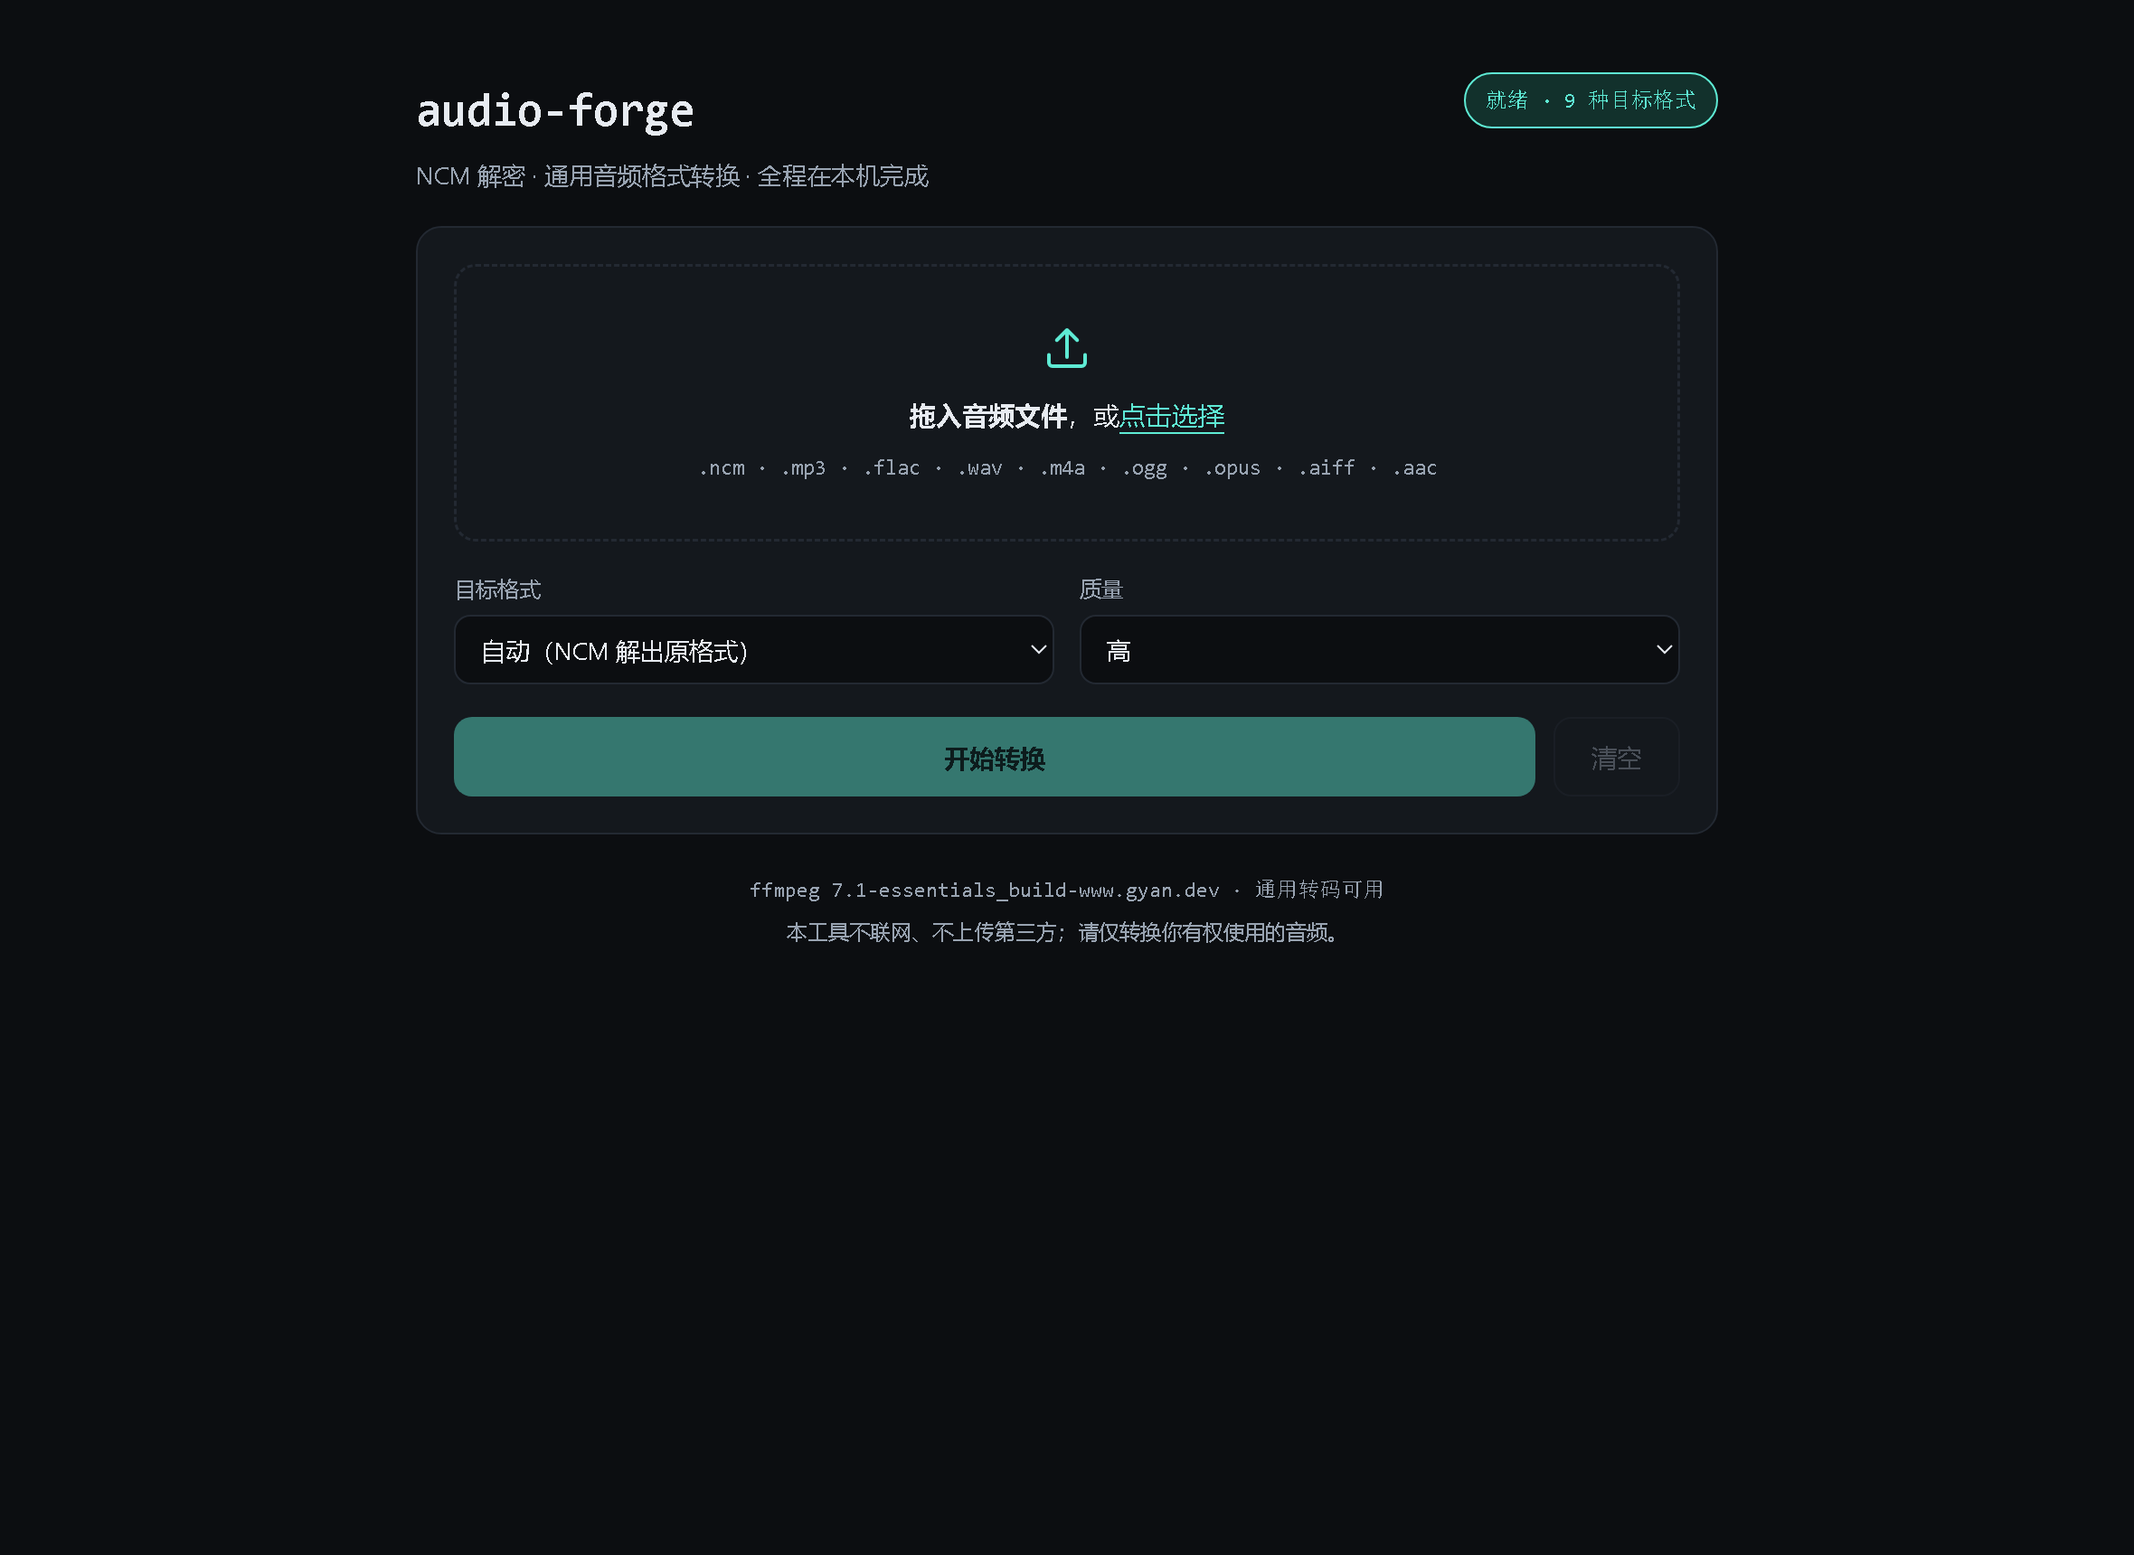
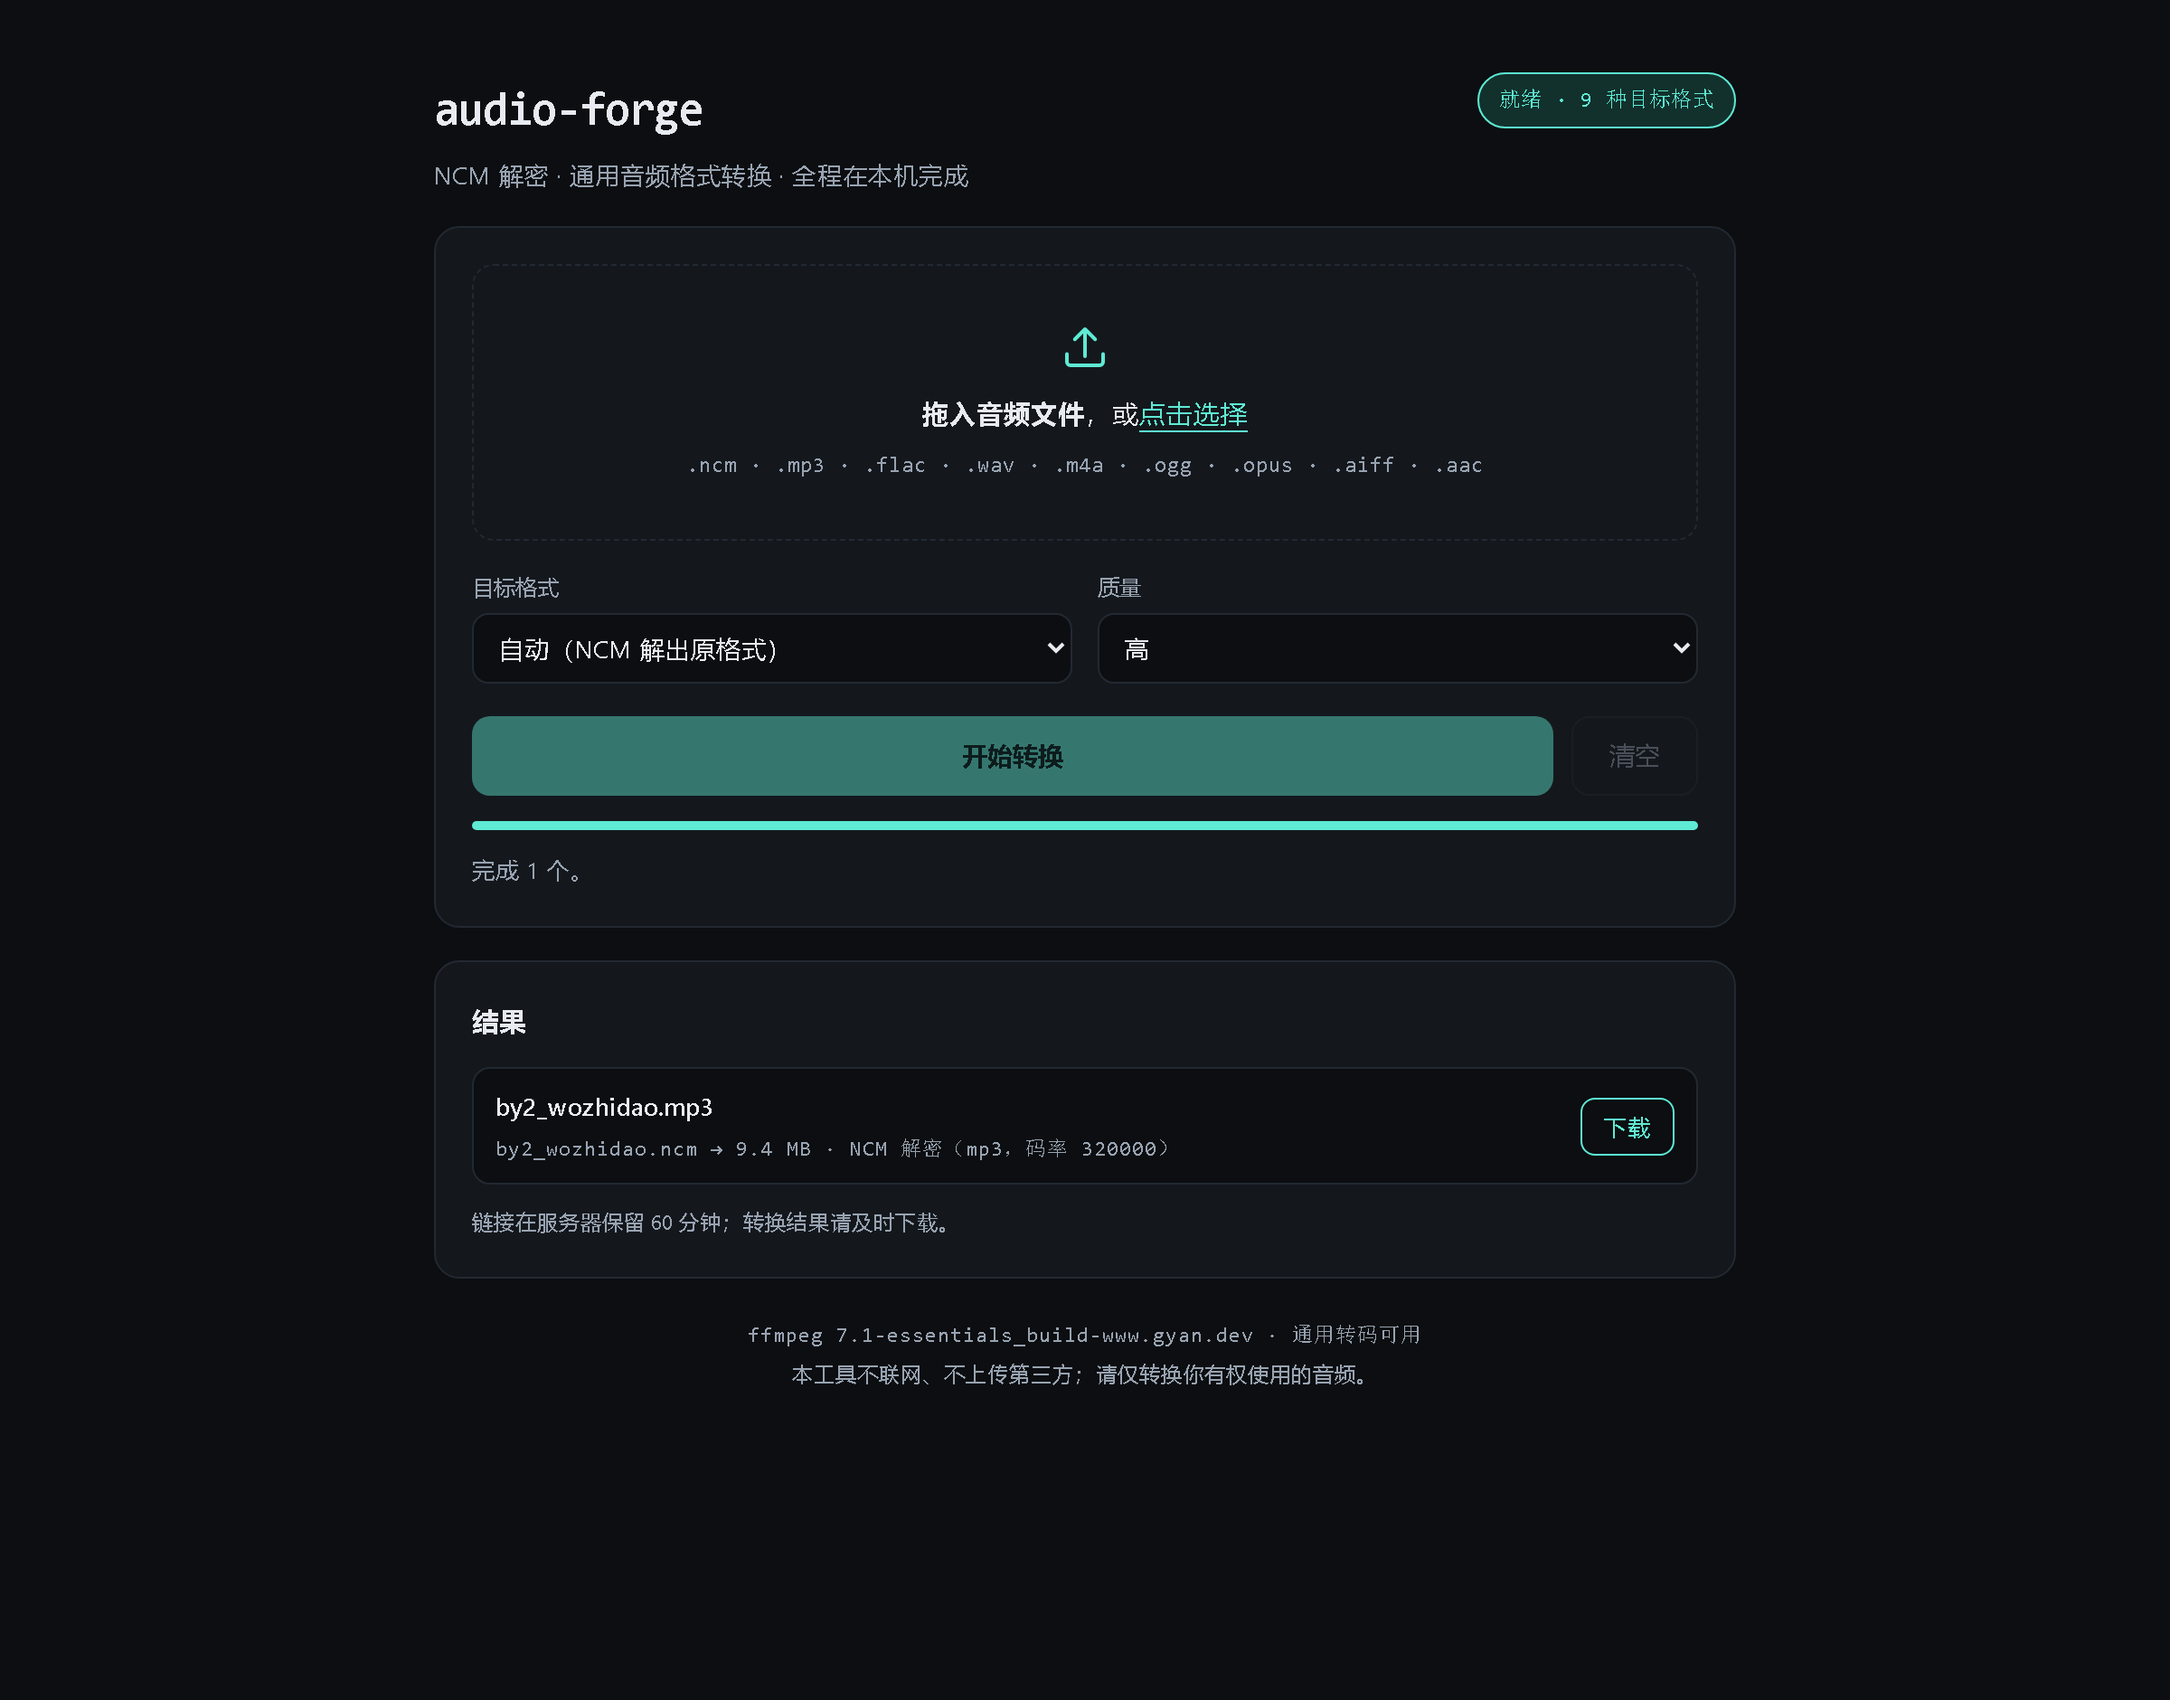
fix(deploy): nginx.conf 三处真机实测暴露的错误
在 nginx 1.28.3 上按原文件起服务、跑真实样本后修的：

1. 整份文件用 // 注释 —— nginx 只认 #，nginx -t 直接失败，等于这份配置从来不能用。
2. limit_req / limit_conn 默认回 503，与应用层 429 语义不一致，运维会误判成服务挂了。
   显式 limit_req_status 429; limit_conn_status 429;
3. 安全头被 add_header 继承规则顶掉：只在 server 级写四个头、再在某 location 里加一条
   Referrer-Policy，该 location 的 nosniff / X-Frame-Options / HSTS 全部消失 —— 实测
   「/ 与 /api/* 有 Referrer-Policy 缺另三个，/api/health 反过来，没有一个 location 齐全」。
   改为每个 location 各写全四行，server 级那份只兜底错误页。

顺带：/api/health 补齐 X-Real-IP / X-Forwarded-For / X-Forwarded-Proto，与其它 location 一致。

实测（nginx 1.28.3，配置由 deploy/nginx.conf 原样生成，仅替换证书/日志路径与端口）：
- 301 跳转、TLS 下 ALPN 协商到 h2
- 10 MB .ncm 经反代转 flac 0.78 s / 52 MB 下载 0.60 s，sha256 与直连一致
- 串行 300 次 /api/ping：过 200 拦 100（30r/s + burst 40）；并发 24：过 8 拦 16（limit_conn 8）
- 声明 300 MB 的 POST 在读头阶段被 413
- 三个路径（/、/api/ping、/api/health）四个安全头齐全

docs/screenshot.png 换成真机跑出来的结果态（真实 10 MB 样本转换完成）。

diff --git a/deploy/README.md b/deploy/README.md
@@ -70,6 +70,22 @@ healthcheck 和监控探针用（否则探活要么失败在 401，要么每 30 
 
 ---
 
+## 2.5 反代层的两个坑（真机踩过，已修在 `nginx.conf` 里）
+
+| 坑 | 现象 | 正确写法 |
+| --- | --- | --- |
+| **限流默认回 503** | `limit_req` / `limit_conn` 超限时 nginx 返回 `503 Service Temporarily Unavailable`，与应用层的 429 不一致，运维会误判成「服务挂了」 | 在 http 块显式写 `limit_req_status 429;` 与 `limit_conn_status 429;` |
+| **安全头被 add_header 顶掉** | 只在 server 级写四个安全头、再在某个 location 里加一条 `Referrer-Policy`，该 location 的响应里 `nosniff`、`X-Frame-Options`、`HSTS` **全部消失**（nginx 的 add_header 是「子级有任意一条就不继承父级」） | 每个 location 各写全四个 `add_header`；server 级那份只兜底错误页 |
+
+实测数据（nginx 1.28.3，`deploy/nginx.conf` 原样起服务）：
+
+- 串行 300 次 `/api/ping`：过 200 / 拦 100（`rate=30r/s burst=40`）；串行 120 次时 0 拦 —— 突发额度足够吃下，别把「没触发 429」当成限流没生效。
+- 并发 24 个健康检查：过 8 / 拦 16（`limit_conn 8`）。
+- 声明 300 MB 的 POST：nginx 在读头阶段就回 `413`，不会真的收完 300 MB。
+- 10 MB `.ncm` 经反代上传转 flac 约 0.7–0.8 s，52 MB 下载约 0.6 s，字节一致。
+
+---
+
 ## 3. Linux + systemd 部署
 
 ```bash

diff --git a/docs/DEPLOY.md b/docs/DEPLOY.md
@@ -189,6 +189,7 @@ audioforge serve --host 127.0.0.1 --port 8000
 | 容器一直 unhealthy | healthcheck 应打 `/api/ping`（不必带凭证）；若改成打 `/api/health`，配了鉴权就会 401 |
 | 返回 429 且 `error` 提「请求过于频繁」 | 撞了 `--rate`；响应头有 `Retry-After` |
 | 返回 429 且 `error` 提「今日配额已用尽」 | 撞了 `--daily-files` / `--daily-gb`，按需调大 |
+| 返回 429 但 body 是 **HTML**、也没有 `Retry-After` | 撞的是 Nginx 的 `limit_req` / `limit_conn`，不是应用配额。调 `nginx.conf` 的 `rate` / `burst` / `limit_conn`。想分清就看 `Server:` 头，应用不返回它 |
 | 磁盘满但 `--disk-gb` 设了 | 磁盘闸门只在**新请求进来时**触发；也可能超限前就已经写满，需外部监控兜底 |
 | 提示「非 NCM 文件必须指定目标格式」 | 目标格式选了「自动」但有非 `.ncm` 文件，选具体格式 |
 | 下载 404 | 超过 `--ttl` 被清理，或 job 目录被 `--workdir` 改动后找不到 |
